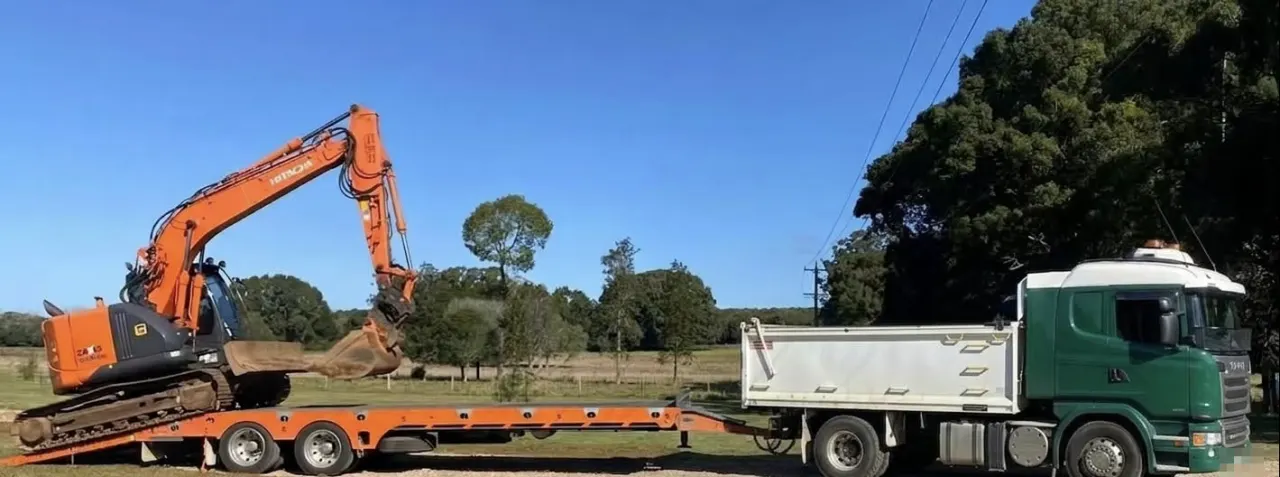
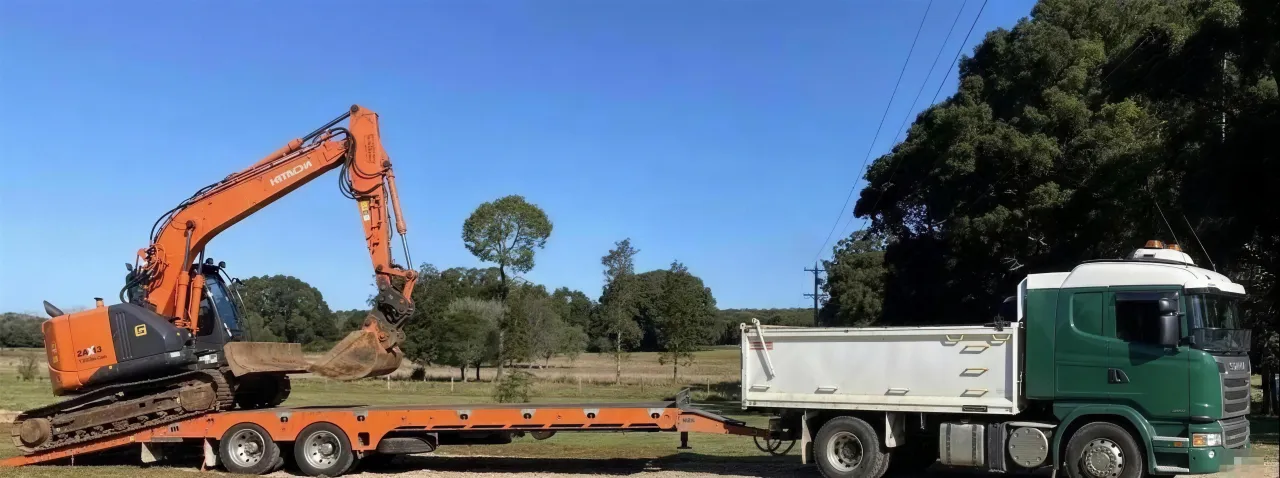
Remove the AI-film labels; show the whole float photo, sharpened, without a caption

diff --git a/index.html b/index.html
@@ -133,14 +133,14 @@ if(/^\d+$/.test(t)&&t!==B&&!new RegExp('[?&]r='+t+'(&|$)').test(location.search)
 <section class="hero" id="top" aria-labelledby="hero-title" data-scope="hero">
   <div class="hero-media" data-speed="0.42" data-px="-14">
     <video class="hero-video" muted loop playsinline preload="none" poster="assets/video/hero-poster.webp" aria-hidden="true" tabindex="-1"
-      data-src-xl="assets/video/hero-1080.mp4" data-src-lg="assets/video/hero-720.mp4" data-src-sm="assets/video/hero-m.mp4" data-poster-sm="assets/video/hero-poster-m.webp"></video>
+      data-src-xxl="assets/video/hero-1440.mp4" data-src-xl="assets/video/hero-1080.mp4" data-src-lg="assets/video/hero-720.mp4" data-src-sm="assets/video/hero-m.mp4" data-poster-sm="assets/video/hero-poster-m.webp"></video>
   </div>
   <div class="hero-shade" aria-hidden="true"></div>
   <div class="grain" aria-hidden="true"></div>
 
   <div class="hero-inner" data-speed="0.2" data-fade data-px="10">
     <div class="wrap">
-      <p class="eyebrow eyebrow-light"><span class="level" aria-hidden="true"></span><span class="hide-sm">Earthmoving ·&nbsp;</span>Northern Rivers NSW · Since 2007</p>
+      <p class="eyebrow eyebrow-light"><span class="level" aria-hidden="true"></span><span><span class="hide-sm">Earthmoving · </span>Northern Rivers NSW · Since 2007</span></p>
       <h1 class="hero-title" id="hero-title" aria-label="Dig it. Wall it. Haul it. All in one.">
         <span class="ln" aria-hidden="true"><span class="chars">Dig it.</span></span>
         <span class="ln" aria-hidden="true"><span class="chars">Wall it.</span></span>
@@ -162,7 +162,6 @@ if(/^\d+$/.test(t)&&t!==B&&!new RegExp('[?&]r='+t+'(&|$)').test(location.search)
     <svg class="ic ic-pause" aria-hidden="true"><use href="#i-pause"/></svg>
     <svg class="ic ic-play" aria-hidden="true"><use href="#i-play"/></svg>
   </button>
-  <p class="media-tag hero-tag">AI-generated film, made for this preview</p>
   <a class="scroll-cue" href="#about" aria-label="Scroll to about"><span class="scroll-cue-line" aria-hidden="true"></span></a>
 
   <div class="hero-ground" data-speed="-0.14" aria-hidden="true">
@@ -208,11 +207,8 @@ if(/^\d+$/.test(t)&&t!==B&&!new RegExp('[?&]r='+t+'(&|$)').test(location.search)
     </div>
   </div>
 
-  <figure class="band" data-scope="band">
-    <div class="band-frame">
-      <img class="band-img" data-speed="0.12" src="assets/img/float-1280.webp" srcset="assets/img/float-720.webp 720w, assets/img/float-1280.webp 1280w, assets/img/float-1419.webp 1419w" sizes="100vw" width="1280" height="477" loading="lazy" decoding="async" alt="The orange excavator loaded on the float trailer behind the green and white tip truck">
-    </div>
-    <figcaption class="wrap band-cap">The excavator on the float, hitched to the tipper: machine and haulage in one trip.</figcaption>
+  <figure class="band rv">
+    <img class="band-img" src="assets/img/float-2000.webp" srcset="assets/img/float-1280.webp 1280w, assets/img/float-2000.webp 2000w, assets/img/float-2800.webp 2800w" sizes="100vw" width="2800" height="1045" loading="lazy" decoding="async" alt="The orange excavator loaded on the float trailer, hitched behind the green and white tip truck">
   </figure>
 </section>
 
@@ -234,7 +230,6 @@ if(/^\d+$/.test(t)&&t!==B&&!new RegExp('[?&]r='+t+'(&|$)').test(location.search)
       </ol>
       <div class="machine-rail" aria-hidden="true"><span class="machine-rail-fill"></span></div>
     </div>
-    <p class="media-tag machine-tag">AI-generated film, made for this preview</p>
   </div>
 </section>
 
@@ -288,7 +283,7 @@ if(/^\d+$/.test(t)&&t!==B&&!new RegExp('[?&]r='+t+'(&|$)').test(location.search)
         </div>
       </li>
       <li class="svc rv">
-        <div class="svc-img reveal-img"><img src="assets/img/float-720.webp" width="720" height="268" loading="lazy" decoding="async" alt="The excavator on a float trailer behind the tip truck"></div>
+        <div class="svc-img reveal-img"><img src="assets/img/float-720.webp" width="720" height="269" loading="lazy" decoding="async" alt="The excavator on a float trailer behind the tip truck"></div>
         <div class="svc-body">
           <span class="svc-num">06</span>
           <h3>Float moves</h3>

diff --git a/assets/css/site.css b/assets/css/site.css
@@ -243,11 +243,6 @@ figure { margin: 0; }
 .vid-toggle .ic-play { fill: currentColor; stroke: none; display: none; }
 .vid-toggle.is-paused .ic-play { display: block; }
 .vid-toggle.is-paused .ic-pause { display: none; }
-.media-tag {
-  margin: 0; min-height: 44px; display: flex; align-items: center;
-  font-size: .75rem; letter-spacing: .08em; text-transform: uppercase; color: rgba(244, 239, 230, .82); text-shadow: 0 1px 6px rgba(0, 0, 0, .6);
-}
-.hero-tag { position: absolute; right: calc(var(--gutter) + 56px); bottom: clamp(110px, 12vw, 165px); z-index: 2; }
 /* a plumb line that keeps dropping, inviting a scroll */
 .scroll-cue {
   position: absolute; left: 50%; bottom: clamp(96px, 10.5vw, 150px); z-index: 2; transform: translateX(-50%);
@@ -307,7 +302,6 @@ figure { margin: 0; }
   .hero .eyebrow { color: var(--orange-2); text-shadow: 0 1px 8px rgba(0, 0, 0, .7); }
   .hero-facts li { font-size: .95rem; }
   .vid-toggle { top: calc(var(--header-h) + 12px); bottom: auto; }
-  .hero-tag { top: calc(var(--header-h) + 12px); bottom: auto; }
 }
 
 /* ---------- reveal on scroll ---------- */
@@ -331,10 +325,9 @@ figure { margin: 0; }
 .fact-num { display: block; font-family: var(--font-d); font-weight: 800; font-size: clamp(2.6rem, 6vw, 4.4rem); line-height: 1; color: var(--earth); }
 .fact-lbl { display: block; margin-top: .5rem; font-family: var(--font-d); font-weight: 600; font-size: 1.05rem; letter-spacing: .08em; text-transform: uppercase; color: var(--muted); }
 
-.band { margin-top: clamp(2.5rem, 6vw, 4.5rem); }
-.band-frame { position: relative; overflow: hidden; height: clamp(220px, 32vw, 460px); background: var(--earth-3); }
-.band-img { position: absolute; left: 0; width: 100%; top: -20%; height: 140%; object-fit: cover; object-position: 50% 60%; will-change: transform; }
-.band-cap { padding-top: .9rem; padding-bottom: clamp(3rem, 7vw, 5rem); font-size: .95rem; color: var(--muted); }
+/* the float photo, shown whole: excavator on the trailer, hitched to the tipper */
+.band { margin: 0; background: var(--ink); }
+.band-img { display: block; width: 100%; height: auto; }
 
 @media (max-width: 820px) {
   .about-grid { grid-template-columns: minmax(0, 1fr); }
@@ -590,7 +583,6 @@ html:not(.js) .action-bar { transform: none; }
 }
 .marquee span.o { color: transparent; -webkit-text-stroke: 1.5px var(--sand); }
 .marquee i { display: inline-block; flex: none; width: .5em; height: .5em; margin: 0 .7em; font-size: clamp(2.2rem, 5.6vw, 4.6rem); background: var(--orange); border-radius: 3px; }
-.band { margin-top: 0; }
 
 /* ---------- the machine: scroll turns the camera around the excavator ---------- */
 .machine { position: relative; height: 300vh; background: var(--ink); color: var(--on-dark); }
@@ -622,7 +614,6 @@ html:not(.js) .action-bar { transform: none; }
 .machine-rail-fill { position: absolute; inset: 0; background: var(--orange); transform-origin: top; transform: scaleY(0); border-radius: 2px; }
 .machine-rail::before, .machine-rail::after { content: ""; position: absolute; left: -5px; width: 12px; height: 2px; background: rgba(244, 239, 230, .5); }
 .machine-rail::before { top: 0; } .machine-rail::after { bottom: 0; }
-.machine-tag { position: absolute; left: calc(var(--gutter) + 22px); bottom: clamp(18px, 3vh, 36px); }
 .machine-poster { object-position: 30% 50%; }
 
 @media (max-width: 720px) {
@@ -639,7 +630,6 @@ html:not(.js) .action-bar { transform: none; }
   .mstep h3 { font-size: 1.35rem; }
   .mstep p { font-size: .95rem; }
   .machine-rail { display: none; }
-  .machine-tag { left: var(--gutter); right: auto; bottom: 40px; min-height: 0; }
 }
 /* without motion: a plain section with the still image */
 html:not(.motion) .machine { height: auto; }

diff --git a/assets/js/site.js b/assets/js/site.js
@@ -142,7 +142,8 @@
   if (video && motion && !conn.saveData) {
     // phones in portrait get an upright cut of the film; big screens get 1080p
     var vw = window.innerWidth, vh0 = window.innerHeight, dpr = window.devicePixelRatio || 1;
-    var src = (vw <= 720 && vh0 > vw) ? 'data-src-sm' : (vw * dpr >= 2200 ? 'data-src-xl' : 'data-src-lg');
+    var px = vw * dpr;
+    var src = (vw <= 720 && vh0 > vw) ? 'data-src-sm' : (px >= 2600 ? 'data-src-xxl' : (px >= 1500 ? 'data-src-xl' : 'data-src-lg'));
     if (src === 'data-src-sm' && video.getAttribute('data-poster-sm')) video.poster = video.getAttribute('data-poster-sm');
     video.src = video.getAttribute(src);
     video.preload = 'auto';
@@ -238,14 +239,20 @@
   }
   function loadFrames() {
     if (mLoaded || !mCount) return; mLoaded = true;
-    var set = window.innerWidth <= 720 ? 'm' : 'd';
-    for (var i = 0; i < mCount; i++) {
+    // phones get 1280 px stills, desktops 1920, sharp or very wide screens 2560
+    var px = window.innerWidth * (window.devicePixelRatio || 1);
+    var set = window.innerWidth <= 720 ? 'm' : (px >= 2600 ? 'x' : 'd');
+    // every sixth still first, so scrolling works at once, then the ones in between
+    var order = [];
+    for (var a = 0; a < mCount; a += 6) order.push(a);
+    for (var b = 0; b < mCount; b++) if (b % 6) order.push(b);
+    order.forEach(function (i) {
       var img = new Image();
       img.decoding = 'async';
-      img.onload = function () { if (mLast < 0) { renderMachine(window.innerHeight, true); } };
+      img.onload = function () { mLast = -1; renderMachine(window.innerHeight, true); };
       img.src = 'assets/machine/' + set + '/' + String(i).padStart(3, '0') + '.webp';
-      mFrames.push(img);
-    }
+      mFrames[i] = img;
+    });
   }
   function ready(img) { return img && img.complete && img.naturalWidth > 0; }
   function drawFrame(i, p) {
